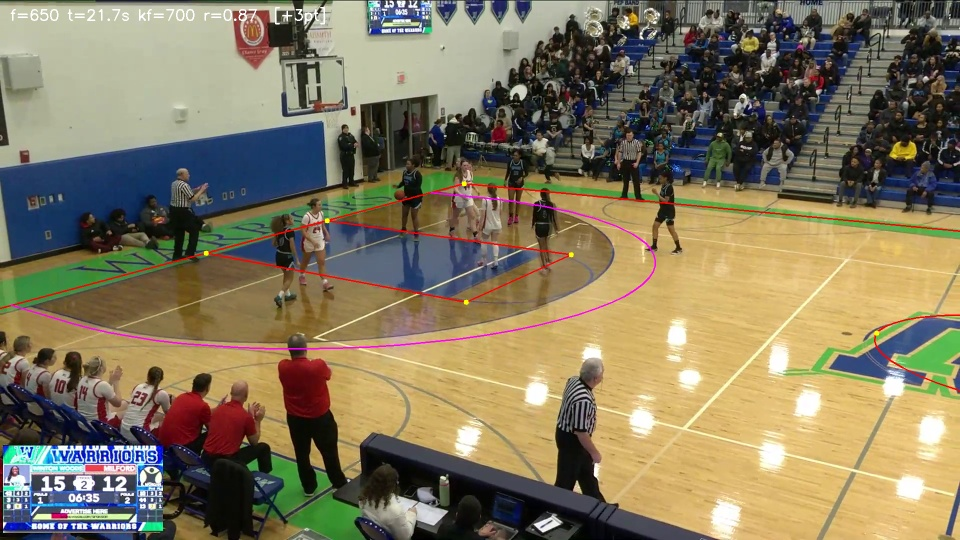
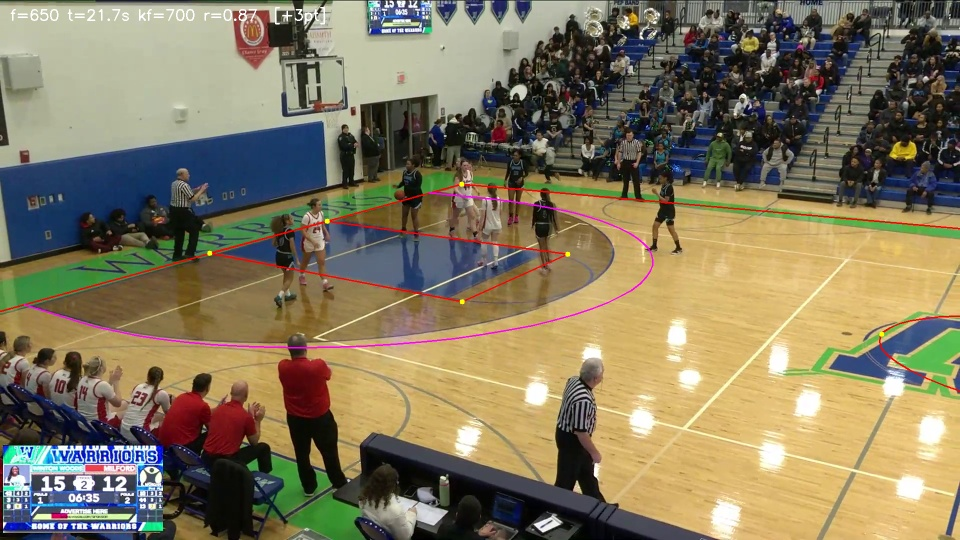
HARD landmark cleanup: re-click occluded FT corners, re-run global fit
Re-estimate the occluded L_FT_far / L_FT_near corner instances as careful
zoomed best-estimates (reclick_ft.py) and drop the occluded R_FT_far@1200,
keeping each region's 4+ well-spread shared landmarks. Optimizer and math
unchanged. FT corners tightened (R_FT 1.31->1.06, L_FT_near 1.17->1.01);
mean held at ~0.95 ft (single-camera floor), arcs still glued to both
baskets. Human-confirmed via HARD_arc_overlay. Validated baseline.

diff --git a/spikes/reclick_ft.py b/spikes/reclick_ft.py
@@ -1,0 +1,80 @@
+"""Re-click the occluded L_FT corners as careful best-estimates (zoomed), to stop
+them dragging the global fit -- WITHOUT removing them (keeps region spread).
+The clean instances (L_FT_far@1000, L_FT_near@600/900) are NOT touched.
+Saves new pixel positions to spikes/out/reclick_results.json. Read-only on CONFIG;
+the assistant applies the results."""
+import os, sys, json
+import cv2, numpy as np
+sys.path.insert(0, os.path.dirname(os.path.abspath(__file__)))
+import stage2_multikeyframe as s2
+
+# occluded instances to re-estimate (clean ones deliberately excluded)
+RECLICK = [(600, "L_FT_far"), (700, "L_FT_far"), (800, "L_FT_far"), (900, "L_FT_far"),
+           (700, "L_FT_near"), (800, "L_FT_near"), (1000, "L_FT_near")]
+R, F = 210, 2.4                      # crop half-size (native px), display upscale
+OUT = os.path.join(s2.OUT_DIR, "reclick_results.json")
+
+
+def clicked_pos(kf, tag):
+    for (t, x, y) in s2.LANDMARKS[kf]:
+        if t == tag:
+            return (x, y)
+    return None
+
+
+def main():
+    os.makedirs(s2.OUT_DIR, exist_ok=True)
+    frames = s2.extract_frames(s2.VIDEO_PATH, sorted({k for k, _ in RECLICK}))
+    results = {}
+    print("\nRe-click each FT corner = where the FREE-THROW LINE meets the LANE EDGE.")
+    print("The old click is the small RED dot. Place the GREEN one precisely.")
+    print("Keys: left-click=set, u=undo, s=skip(keep old), ENTER=confirm.\n")
+    for kf, tag in RECLICK:
+        old = clicked_pos(kf, tag)
+        fr = frames[kf]
+        x0, y0 = int(max(0, old[0]-R)), int(max(0, old[1]-R))
+        x1, y1 = int(min(1920, old[0]+R)), int(min(1080, old[1]+R))
+        crop = fr[y0:y1, x0:x1]
+        disp0 = cv2.resize(crop, (int((x1-x0)*F), int((y1-y0)*F)))
+        oldd = (int((old[0]-x0)*F), int((old[1]-y0)*F))
+        state = {"pt": None}
+
+        def on_mouse(ev, x, y, flags, param):
+            if ev == cv2.EVENT_LBUTTONDOWN:
+                state["pt"] = (x, y)
+
+        win = f"{tag} @ kf{kf}"
+        cv2.namedWindow(win, cv2.WINDOW_NORMAL)
+        cv2.setMouseCallback(win, on_mouse)
+        while True:
+            d = disp0.copy()
+            cv2.circle(d, oldd, 6, (0, 0, 255), 1)           # old
+            cv2.rectangle(d, (0, 0), (d.shape[1], 26), (0, 0, 0), -1)
+            cv2.putText(d, f"{tag} @ kf{kf}: click FT-line x lane-edge corner "
+                           "(u=undo s=skip ENTER=ok)", (6, 18),
+                        cv2.FONT_HERSHEY_SIMPLEX, 0.45, (0, 255, 255), 1)
+            if state["pt"]:
+                cv2.circle(d, state["pt"], 7, (0, 255, 0), 2)
+            cv2.imshow(win, d)
+            k = cv2.waitKey(20) & 0xFF
+            if k == ord("u"):
+                state["pt"] = None
+            elif k == ord("s"):
+                state["pt"] = "skip"; break
+            elif k in (13, ord("q")) and state["pt"] is not None:
+                break
+        cv2.destroyWindow(win)
+        if state["pt"] == "skip" or state["pt"] is None:
+            print(f"  {tag}@{kf}: skipped (keeping old {old})")
+            continue
+        nx, ny = x0 + state["pt"][0]/F, y0 + state["pt"][1]/F
+        results[f"{kf}|{tag}"] = [round(nx, 1), round(ny, 1)]
+        print(f"  {tag}@{kf}: {tuple(round(v,1) for v in old)} -> ({nx:.1f},{ny:.1f})")
+
+    json.dump(results, open(OUT, "w"), indent=2)
+    print(f"\nsaved {OUT}  ({len(results)} re-clicks)")
+    print("Tell your assistant it's saved; they'll apply it + remove R_FT_far@1200 + re-run.")
+
+
+if __name__ == "__main__":
+    main()

diff --git a/spikes/stage2_multikeyframe.py b/spikes/stage2_multikeyframe.py
@@ -86,21 +86,21 @@ LANDMARKS = {
         ('L_lane_base_near', 432.0, 501.0),
         ('L_lane_base_far', 655.5, 436.5),
         ('L_FT_near', 894.0, 598.5),
-        ('L_FT_far', 1107.0, 505.5),
+        ('L_FT_far', 1097.8, 504.2),
     ],
     700: [
         ('LB_side_far', 945.0, 358.5),
         ('L_lane_base_near', 423.0, 502.5),
         ('L_lane_base_far', 663.0, 435.0),
-        ('L_FT_near', 897.0, 598.5),
-        ('L_FT_far', 1102.5, 502.5),
+        ('L_FT_near', 893.7, 598.8),
+        ('L_FT_far', 1097.0, 503.7),
     ],
     800: [
         ('LB_side_far', 732.0, 348.0),
         ('L_lane_base_near', 259.5, 495.0),
         ('L_lane_base_far', 481.5, 427.5),
-        ('L_FT_near', 693.0, 562.5),
-        ('L_FT_far', 870.0, 472.5),
+        ('L_FT_near', 698.4, 563.7),
+        ('L_FT_far', 870.4, 476.2),
         ('center_logo', 1653.0, 628.5),
         ('center_far', 1698.0, 439.5),
     ],
@@ -109,7 +109,7 @@ LANDMARKS = {
         ('L_lane_base_near', 211.5, 496.5),
         ('L_lane_base_far', 432.0, 426.0),
         ('L_FT_near', 648.0, 559.5),
-        ('L_FT_far', 810.0, 471.0),
+        ('L_FT_far', 802.1, 471.4),
         ('center_logo', 1549.5, 609.0),
         ('center_far', 1587.0, 424.5),
         ('circle_top', 1561.5, 553.5),
@@ -121,7 +121,7 @@ LANDMARKS = {
         ('LB_side_far', 672.0, 354.0),
         ('L_lane_base_near', 216.0, 496.5),
         ('L_lane_base_far', 433.5, 429.0),
-        ('L_FT_near', 633.0, 558.0),
+        ('L_FT_near', 635.9, 558.8),
         ('L_FT_far', 798.0, 472.5),
         ('center_logo', 1512.0, 598.5),
         ('center_far', 1546.5, 429.0),
@@ -147,7 +147,6 @@ LANDMARKS = {
         ('center_logo', 27.0, 685.5),
         ('center_far', 10.5, 481.5),
         ('R_FT_near', 1024.5, 585.0),
-        ('R_FT_far', 864.0, 495.0),
         ('R_lane_base_near', 1447.5, 499.5),
         ('R_lane_base_far', 1246.5, 436.5),
         ('RB_side_far', 1015.5, 363.0),
